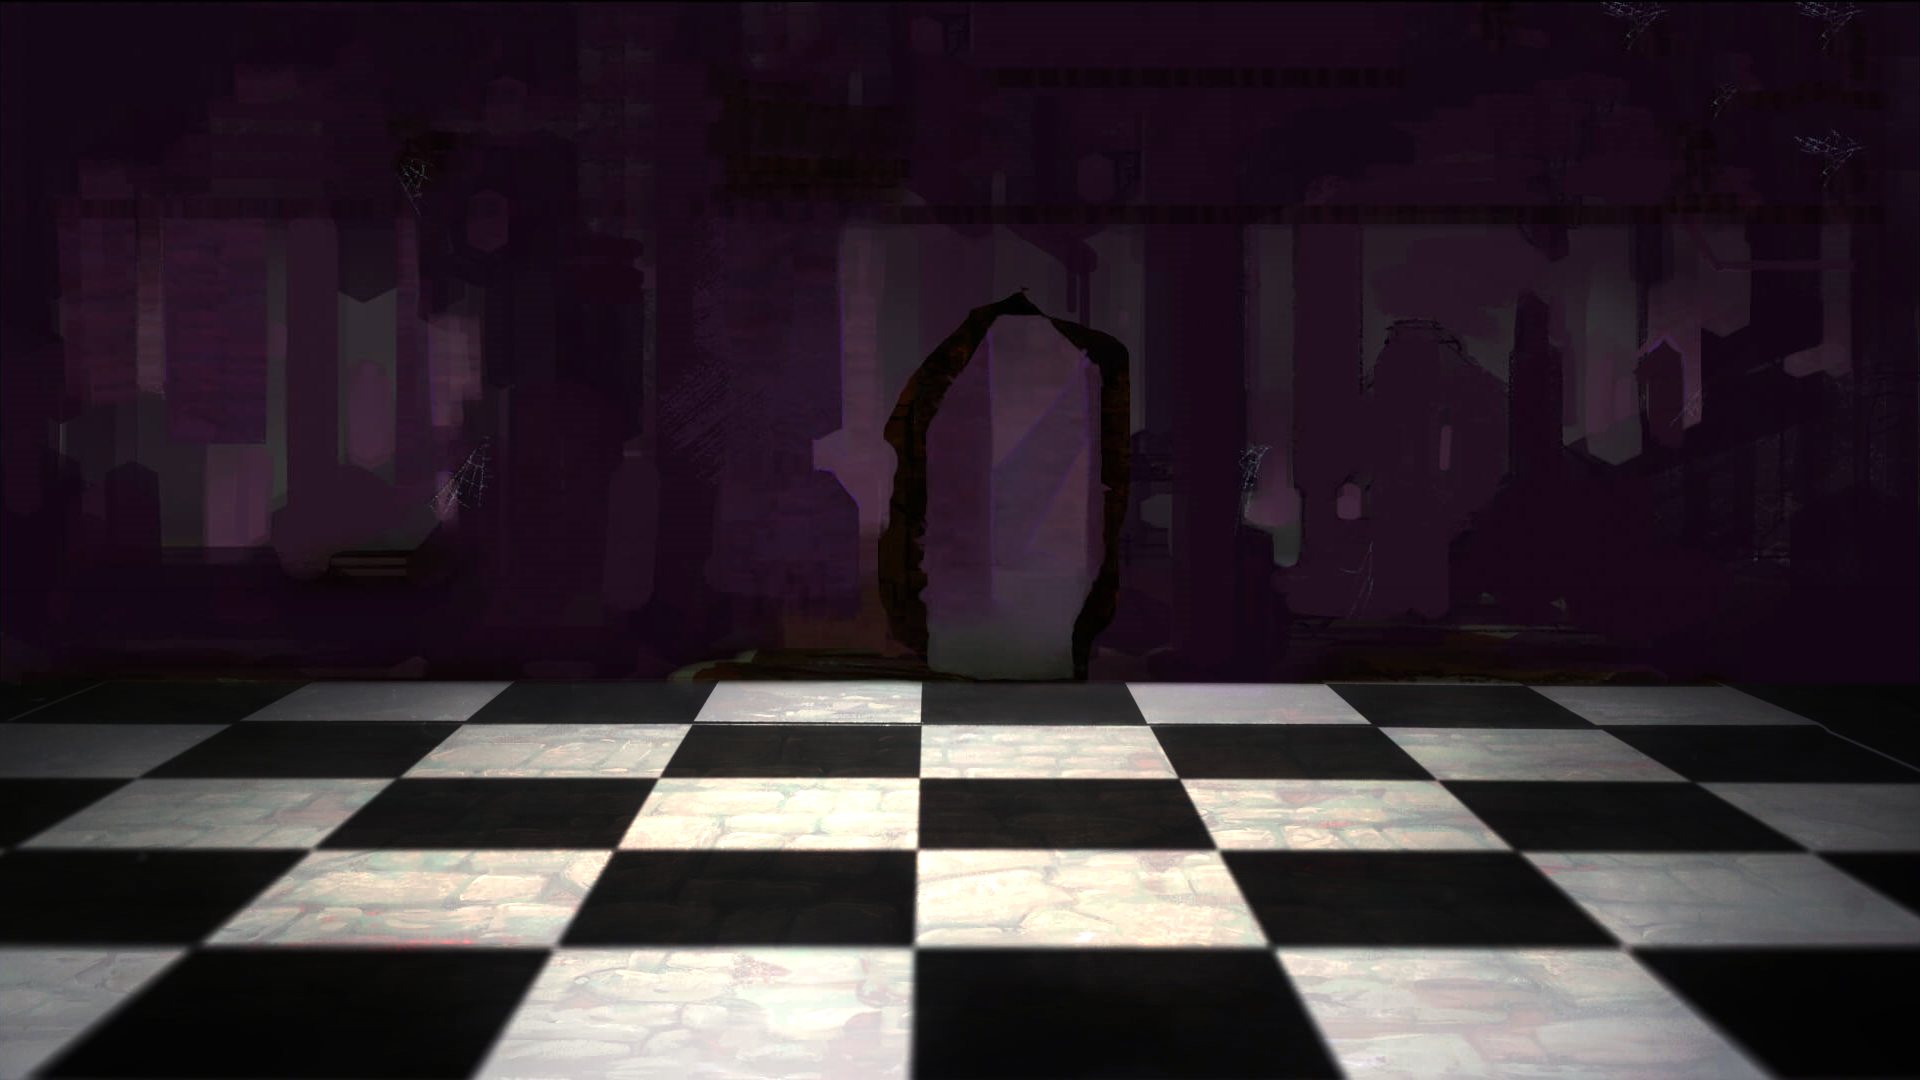
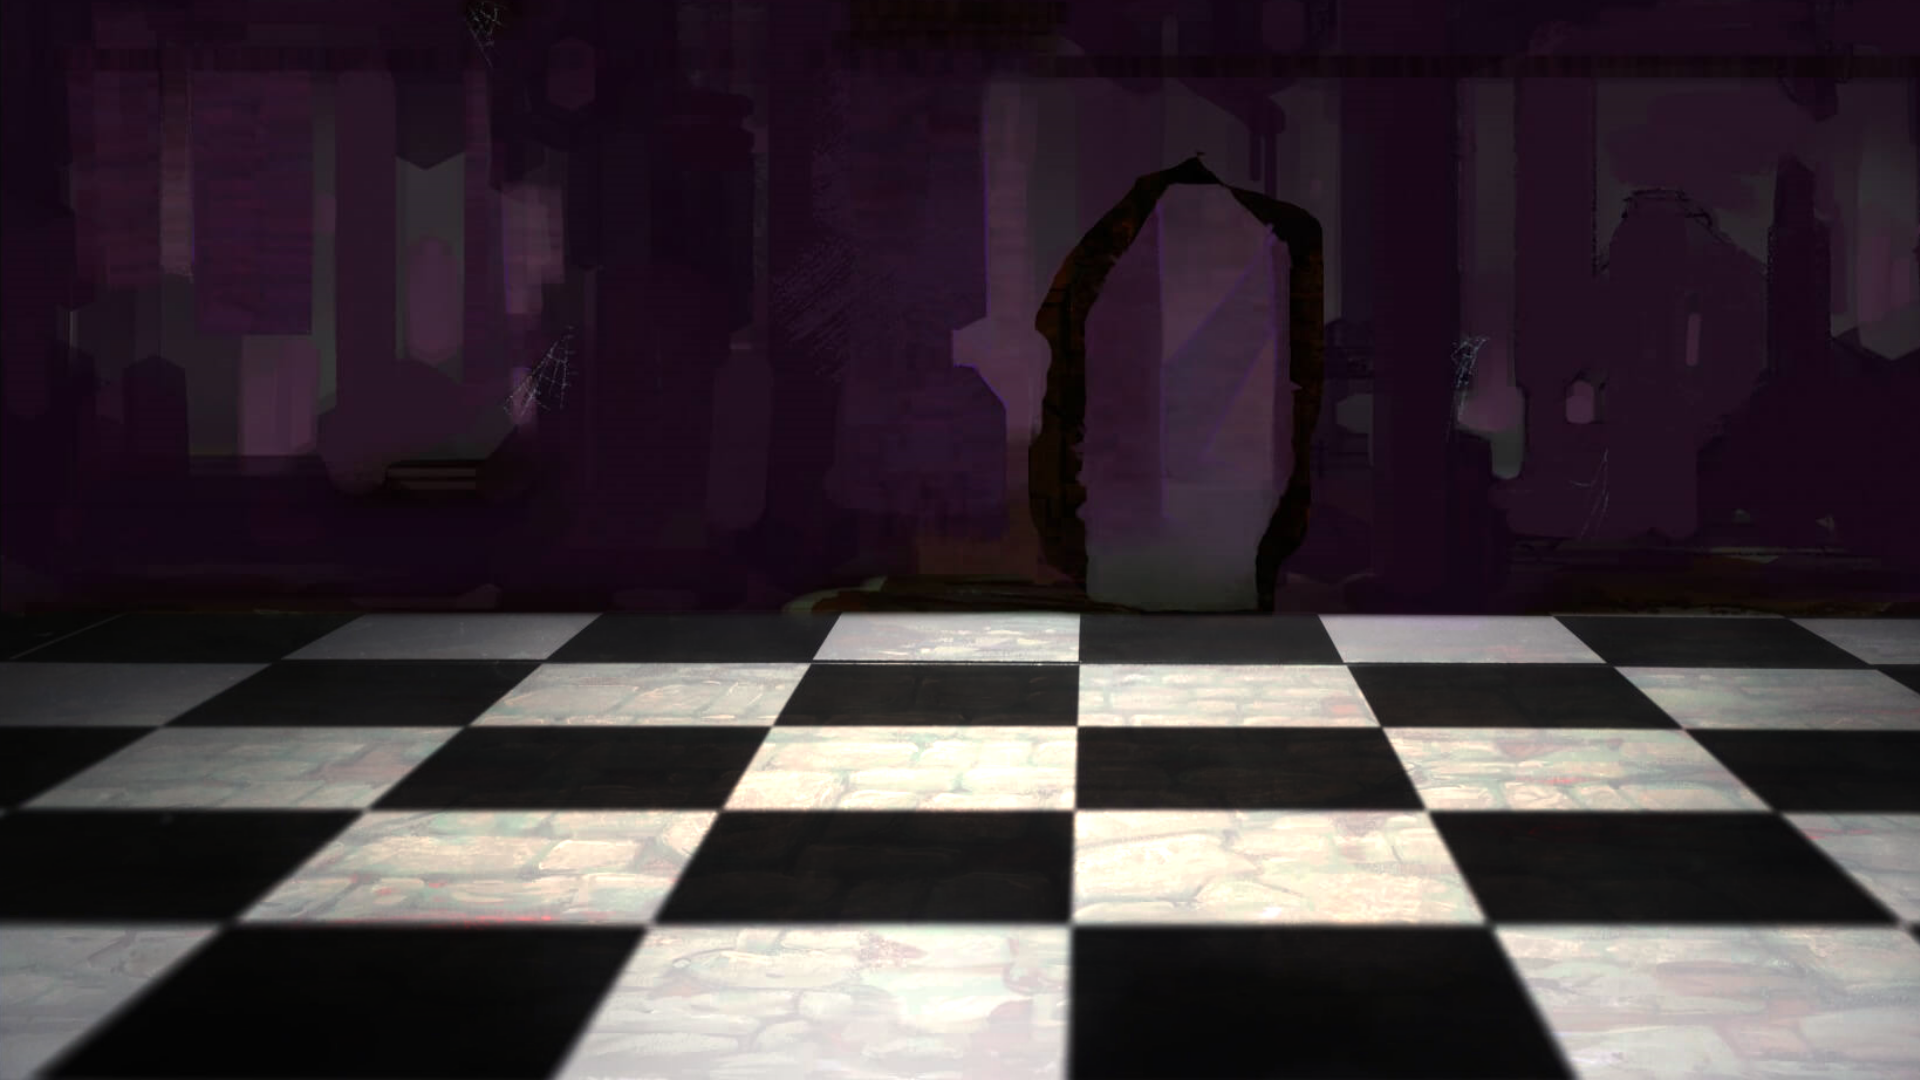
setup queen

diff --git a/BattleTowers/src/main/java/BattleTowers/monsters/chess/queen/Queen.java b/BattleTowers/src/main/java/BattleTowers/monsters/chess/queen/Queen.java
@@ -6,15 +6,16 @@ import BattleTowers.monsters.chess.queen.powers.BlackWave;
 import BattleTowers.monsters.chess.queen.powers.FactionChange;
 import BattleTowers.monsters.chess.queen.powers.Inverse;
 import BattleTowers.monsters.chess.queen.powers.WhiteWave;
+import basemod.ReflectionHacks;
+import com.badlogic.gdx.Gdx;
 import com.badlogic.gdx.graphics.Color;
+import com.badlogic.gdx.graphics.g2d.TextureAtlas;
 import com.megacrit.cardcrawl.actions.AbstractGameAction;
 import com.megacrit.cardcrawl.actions.animations.FastShakeAction;
 import com.megacrit.cardcrawl.actions.animations.VFXAction;
 import com.megacrit.cardcrawl.actions.common.*;
 import com.megacrit.cardcrawl.actions.utility.SFXAction;
-import com.megacrit.cardcrawl.cards.AbstractCard;
 import com.megacrit.cardcrawl.cards.DamageInfo;
-import com.megacrit.cardcrawl.cards.colorless.Madness;
 import com.megacrit.cardcrawl.core.AbstractCreature;
 import com.megacrit.cardcrawl.core.CardCrawlGame;
 import com.megacrit.cardcrawl.core.Settings;
@@ -22,6 +23,7 @@ import com.megacrit.cardcrawl.dungeons.AbstractDungeon;
 import com.megacrit.cardcrawl.localization.MonsterStrings;
 import com.megacrit.cardcrawl.monsters.EnemyMoveInfo;
 import com.megacrit.cardcrawl.powers.*;
+import com.megacrit.cardcrawl.scenes.AbstractScene;
 import com.megacrit.cardcrawl.vfx.BorderFlashEffect;
 import com.megacrit.cardcrawl.vfx.combat.MoveNameEffect;
 import com.megacrit.cardcrawl.vfx.combat.ShockWaveEffect;
@@ -40,61 +42,31 @@ public class Queen extends AbstractCardChessMonster {
     public static final String[] MOVES = monsterStrings.MOVES;
     public static final String[] DIALOG = monsterStrings.DIALOG;
 
-    // Deal 7 Damage. If this was unblocked, Gain 3 Strength Next turn.
     private static final byte QUEENS_WILL = 0;
     private static final byte MIMIC_BLACK = 1;
     private static final byte MIMIC_WHITE = 2;
     private static final byte DRAIN_OF_COLOUR = 3;
-    private static final byte INVERSE_STORE = 4;
+    private static final byte MIMIC_INVERT = 4;
     private static final byte QUEENS_PROTECTION = 5;
     private static final byte QUEENS_MARCH = 6;
-    private static final byte QUEENS_DECREE = 7;
 
     private int turn = 1;
-    // Timeline:
 
-    // T1: Store_Black or Store_White.
+    public final int willDamage = calcAscensionDamage(5);
+    public final int willStrength = 1;
 
-    // T2: Stored_Wave + Queen's Will.
-
-    // T3: Store_Black or Store_White.
-
-    // T4: Stored_Wave + Queen's Will.
-
-    // T5: Queen's Protection {BLOCK}.
-
-    // T6: Queen's March
-
-    // T7: Inverse_Store_Black / Inverse_Store_White
-
-    // T8: Stored_Wave + Queen's Will
-
-    // T9: Inverse_Stored_Black/White + Queen's Will.
-
-    // T10: Queen's Will + Stored_Wave
-
-    // T11: Queen's Protection
-
-    // T12: Queen's March
-
-    // T13: Queen's Decree
-
-    // T14: Queen's March
-
-    public final int willDamage = calcAscensionDamage(7);
-    public final int willStrength = calcAscensionSpecial(2);
-
-    public final int waveDamage = calcAscensionDamage(12);
+    public final int waveDamage = calcAscensionDamage(15);
     public final int marchDamage = calcAscensionDamage(20);
 
-    public final int protectionBlock = calcAscensionTankiness(20);
+    public final int protectionBlock = calcAscensionTankiness(15);
+
 
     public Queen() {
         this(0.0f, 0.0f);
     }
 
     public Queen(final float x, final float y) {
-        super(NAME, ID, 350, 0.0F, 0, 230.0f, 265.0f, null, x, y);
+        super(NAME, ID, 450, 0.0F, 0, 230.0f, 400.0f, null, x, y);
         this.animation = new BetterSpriterAnimation(makeMonsterPath("Chess/Queen/Spriter/Queen.scml"));
         this.setHp(calcAscensionTankiness(this.maxHealth));
         this.type = EnemyType.BOSS;
@@ -106,11 +78,10 @@ public class Queen extends AbstractCardChessMonster {
         addMove(QUEENS_WILL, Intent.ATTACK_BUFF, willDamage);
         addMove(MIMIC_BLACK, Intent.UNKNOWN);
         addMove(MIMIC_WHITE, Intent.UNKNOWN);
-        addMove(DRAIN_OF_COLOUR, IntentEnums.QUEEN_DRAIN, waveDamage);
-        addMove(INVERSE_STORE, Intent.UNKNOWN);
+        addMove(DRAIN_OF_COLOUR, IntentEnums.QUEEN_DRAIN_ATTACK, waveDamage);
+        addMove(MIMIC_INVERT, Intent.UNKNOWN);
         addMove(QUEENS_PROTECTION, Intent.DEFEND, protectionBlock);
         addMove(QUEENS_MARCH, Intent.ATTACK, marchDamage);
-        addMove(QUEENS_DECREE, Intent.BUFF);
     }
 
     @Override
@@ -121,13 +92,9 @@ public class Queen extends AbstractCardChessMonster {
 
     @Override
     public void usePreBattleAction() {
-        atb(new AbstractGameAction() {
-            @Override
-            public void update() {
-                runAnim("Idle");
-                isDone = true;
-            }
-        });
+        TextureAtlas atlas = new TextureAtlas(Gdx.files.internal(makeMonsterPath("Chess/Scene/atlas.atlas")));
+        ReflectionHacks.setPrivate(AbstractDungeon.scene, AbstractScene.class, "bg", atlas.findRegion("mod/Chess"));
+        runAnim("Idle");
         doPow(p(), new FactionChange(p()), true);
     }
 
@@ -174,18 +141,10 @@ public class Queen extends AbstractCardChessMonster {
         switch (move.nextMove) {
             case QUEENS_WILL: {
                 dmg(target, info);
-                atb(new AbstractGameAction() {
-                    @Override
-                    public void update() {
-                        if (p().lastDamageTaken > 0) {
-                            doPow(Queen.this, new StrengthPower(Queen.this, willStrength), true);
-                        }
-                        isDone = true;
-                    }
-                });
+                doPow(Queen.this, new StrengthPower(Queen.this, willStrength), false);
                 break;
             }
-            case QUEENS_DECREE: {
+            case QUEENS_PROTECTION: {
                 atb(new GainBlockAction(this, protectionBlock));
                 break;
             }
@@ -194,14 +153,14 @@ public class Queen extends AbstractCardChessMonster {
                 dmg(target, info);
                 break;
             }
-            case INVERSE_STORE: {
+            case MIMIC_INVERT: {
                 if(AbstractDungeon.monsterRng.random(0, 99) <= 45){
                     atb(new SFXAction("THUNDERCLAP"));
                     atb(new VFXAction(new BorderFlashEffect(Color.BLACK.cpy(), true)));
                     if (!Settings.FAST_MODE) {
-                        atb(new FastShakeAction(AbstractDungeon.player, 0.6F, 0.2F));
+                        atb(new FastShakeAction(Queen.this, 0.6F, 0.2F));
                     } else {
-                        atb(new FastShakeAction(AbstractDungeon.player, 0.6F, 0.15F));
+                        atb(new FastShakeAction(Queen.this, 0.6F, 0.15F));
                     }
                     atb(new AbstractGameAction() {
                         @Override
@@ -216,9 +175,9 @@ public class Queen extends AbstractCardChessMonster {
                     atb(new SFXAction("THUNDERCLAP"));
                     atb(new VFXAction(new BorderFlashEffect(Color.WHITE.cpy(), true)));
                     if (!Settings.FAST_MODE) {
-                        atb(new FastShakeAction(AbstractDungeon.player, 0.6F, 0.2F));
+                        atb(new FastShakeAction(Queen.this, 0.6F, 0.2F));
                     } else {
-                        atb(new FastShakeAction(AbstractDungeon.player, 0.6F, 0.15F));
+                        atb(new FastShakeAction(Queen.this, 0.6F, 0.15F));
                     }
                     atb(new AbstractGameAction() {
                         @Override
@@ -297,10 +256,10 @@ public class Queen extends AbstractCardChessMonster {
                                     }
                                     if (!Settings.FAST_MODE) {
                                         att(new FastShakeAction(p(), 0.6F, 0.2F));
-                                        att(new VFXAction(Queen.this, new ShockWaveEffect(Queen.this.hb.cX, Queen.this.hb.cY, Color.BLACK.cpy(), ShockWaveEffect.ShockWaveType.ADDITIVE), 0.5F));
+                                        att(new VFXAction(Queen.this, new ShockWaveEffect(Queen.this.hb.cX, Queen.this.hb.cY, Color.BLACK.cpy(), ShockWaveEffect.ShockWaveType.NORMAL), 0.5F));
                                     } else {
                                         att(new FastShakeAction(p(), 0.6F, 0.15F));
-                                        att(new VFXAction(Queen.this, new ShockWaveEffect(Queen.this.hb.cX, Queen.this.hb.cY, Color.BLACK.cpy(), ShockWaveEffect.ShockWaveType.ADDITIVE), 0.1F));
+                                        att(new VFXAction(Queen.this, new ShockWaveEffect(Queen.this.hb.cX, Queen.this.hb.cY, Color.BLACK.cpy(), ShockWaveEffect.ShockWaveType.NORMAL), 0.1F));
                                     }
                                     att(new VFXAction(new BorderFlashEffect(Color.BLACK.cpy(), true)));
                                     att(new SFXAction("THUNDERCLAP"));
@@ -313,10 +272,10 @@ public class Queen extends AbstractCardChessMonster {
                                     }
                                     if (!Settings.FAST_MODE) {
                                         att(new FastShakeAction(p(), 0.6F, 0.2F));
-                                        att(new VFXAction(Queen.this, new ShockWaveEffect(Queen.this.hb.cX, Queen.this.hb.cY, Color.WHITE.cpy(), ShockWaveEffect.ShockWaveType.ADDITIVE), 0.5F));
+                                        att(new VFXAction(Queen.this, new ShockWaveEffect(Queen.this.hb.cX, Queen.this.hb.cY, Color.WHITE.cpy(), ShockWaveEffect.ShockWaveType.NORMAL), 0.5F));
                                     } else {
                                         att(new FastShakeAction(p(), 0.6F, 0.15F));
-                                        att(new VFXAction(Queen.this, new ShockWaveEffect(Queen.this.hb.cX, Queen.this.hb.cY, Color.WHITE.cpy(), ShockWaveEffect.ShockWaveType.ADDITIVE), 0.1F));
+                                        att(new VFXAction(Queen.this, new ShockWaveEffect(Queen.this.hb.cX, Queen.this.hb.cY, Color.WHITE.cpy(), ShockWaveEffect.ShockWaveType.NORMAL), 0.1F));
                                     }
                                     att(new VFXAction(new BorderFlashEffect(Color.WHITE.cpy(), true)));
                                     att(new SFXAction("THUNDERCLAP"));
@@ -333,10 +292,10 @@ public class Queen extends AbstractCardChessMonster {
                                     }
                                     if (!Settings.FAST_MODE) {
                                         att(new FastShakeAction(p(), 0.6F, 0.2F));
-                                        att(new VFXAction(Queen.this, new ShockWaveEffect(Queen.this.hb.cX, Queen.this.hb.cY, Color.WHITE.cpy(), ShockWaveEffect.ShockWaveType.ADDITIVE), 0.5F));
+                                        att(new VFXAction(Queen.this, new ShockWaveEffect(Queen.this.hb.cX, Queen.this.hb.cY, Color.WHITE.cpy(), ShockWaveEffect.ShockWaveType.NORMAL), 0.5F));
                                     } else {
                                         att(new FastShakeAction(p(), 0.6F, 0.15F));
-                                        att(new VFXAction(Queen.this, new ShockWaveEffect(Queen.this.hb.cX, Queen.this.hb.cY, Color.WHITE.cpy(), ShockWaveEffect.ShockWaveType.ADDITIVE), 0.1F));
+                                        att(new VFXAction(Queen.this, new ShockWaveEffect(Queen.this.hb.cX, Queen.this.hb.cY, Color.WHITE.cpy(), ShockWaveEffect.ShockWaveType.NORMAL), 0.1F));
                                     }
                                     att(new VFXAction(new BorderFlashEffect(Color.WHITE.cpy(), true)));
                                     att(new SFXAction("THUNDERCLAP"));
@@ -349,10 +308,10 @@ public class Queen extends AbstractCardChessMonster {
                                     }
                                     if (!Settings.FAST_MODE) {
                                         att(new FastShakeAction(p(), 0.6F, 0.2F));
-                                        att(new VFXAction(Queen.this, new ShockWaveEffect(Queen.this.hb.cX, Queen.this.hb.cY, Color.BLACK.cpy(), ShockWaveEffect.ShockWaveType.ADDITIVE), 0.5F));
+                                        att(new VFXAction(Queen.this, new ShockWaveEffect(Queen.this.hb.cX, Queen.this.hb.cY, Color.BLACK.cpy(), ShockWaveEffect.ShockWaveType.NORMAL), 0.5F));
                                     } else {
                                         att(new FastShakeAction(p(), 0.6F, 0.15F));
-                                        att(new VFXAction(Queen.this, new ShockWaveEffect(Queen.this.hb.cX, Queen.this.hb.cY, Color.BLACK.cpy(), ShockWaveEffect.ShockWaveType.ADDITIVE), 0.1F));
+                                        att(new VFXAction(Queen.this, new ShockWaveEffect(Queen.this.hb.cX, Queen.this.hb.cY, Color.BLACK.cpy(), ShockWaveEffect.ShockWaveType.NORMAL), 0.1F));
                                     }
                                     att(new VFXAction(new BorderFlashEffect(Color.BLACK.cpy(), true)));
                                     att(new SFXAction("THUNDERCLAP"));
@@ -423,38 +382,35 @@ public class Queen extends AbstractCardChessMonster {
 
     @Override
     protected void getMove(final int num) {
-        if(lastMove(MIMIC_BLACK) || lastMove(MIMIC_WHITE) || lastMove(INVERSE_STORE)){setMoveShortcut(DRAIN_OF_COLOUR, MOVES[DRAIN_OF_COLOUR], getMoveCardFromByte(DRAIN_OF_COLOUR));}
-        else if(lastMove(QUEENS_DECREE)){setMoveShortcut(QUEENS_MARCH, MOVES[QUEENS_MARCH], getMoveCardFromByte(QUEENS_MARCH));}
+        if(lastMove(MIMIC_BLACK) || lastMove(MIMIC_WHITE) || lastMove(MIMIC_INVERT)){setMoveShortcut(DRAIN_OF_COLOUR, MOVES[DRAIN_OF_COLOUR]);}
         else {
             switch (turn){
                 case 6:
-                    setMoveShortcut(QUEENS_MARCH, MOVES[QUEENS_MARCH], getMoveCardFromByte(QUEENS_MARCH));
+                    setMoveShortcut(QUEENS_MARCH, MOVES[QUEENS_MARCH]);
                     break;
                 case 9:
                 case 7:
-                    setMoveShortcut(INVERSE_STORE, MOVES[INVERSE_STORE], getMoveCardFromByte(INVERSE_STORE));
+                    setMoveShortcut(MIMIC_INVERT, MOVES[MIMIC_INVERT]);
                     break;
                 case 13:
-                    setMoveShortcut(QUEENS_DECREE, MOVES[QUEENS_DECREE], getMoveCardFromByte(QUEENS_DECREE));
-                    break;
                 case 5:
                 case 11:
                     setMoveShortcut(QUEENS_PROTECTION);
                     break;
                 default:
                     if(this.hasPower(StrengthPower.POWER_ID)){
-                        if(AbstractDungeon.monsterRng.random(0, 99) <= 45){setMoveShortcut(INVERSE_STORE, MOVES[INVERSE_STORE], getMoveCardFromByte(INVERSE_STORE));}
+                        if(AbstractDungeon.monsterRng.random(0, 99) <= 45){setMoveShortcut(MIMIC_INVERT, MOVES[MIMIC_INVERT]);}
                         else {
-                            if(AbstractDungeon.monsterRng.random(0, 99) <= 45){setMoveShortcut(MIMIC_WHITE, MOVES[MIMIC_WHITE], getMoveCardFromByte(MIMIC_WHITE));}
-                            else {setMoveShortcut(MIMIC_BLACK, MOVES[MIMIC_BLACK], getMoveCardFromByte(MIMIC_BLACK)); }
+                            if(AbstractDungeon.monsterRng.random(0, 99) <= 45){setMoveShortcut(MIMIC_WHITE, MOVES[MIMIC_WHITE]);}
+                            else {setMoveShortcut(MIMIC_BLACK, MOVES[MIMIC_BLACK]); }
                         }
                     }
                     else {
                         if(AbstractDungeon.monsterRng.random(0, 99) <= 45){
-                            setMoveShortcut(MIMIC_BLACK, MOVES[MIMIC_BLACK], getMoveCardFromByte(MIMIC_BLACK));
+                            setMoveShortcut(MIMIC_BLACK, MOVES[MIMIC_BLACK]);
                         }
                         else {
-                            setMoveShortcut(MIMIC_WHITE, MOVES[MIMIC_WHITE], getMoveCardFromByte(MIMIC_WHITE));
+                            setMoveShortcut(MIMIC_WHITE, MOVES[MIMIC_WHITE]);
                         }
                     }
             }
@@ -465,37 +421,13 @@ public class Queen extends AbstractCardChessMonster {
     public void getAdditionalMoves(int num, int whichMove) {
         ArrayList<Byte> moveHistory = additionalMovesHistory.get(whichMove);
         switch (turn) {
-            case 2:
-            case 4:
-            case 5:
-            case 8:
-            case 10:
-            case 11: {
-                setAdditionalMoveShortcut(QUEENS_WILL, moveHistory, getMoveCardFromByte(QUEENS_WILL));
-                break;
-            }
             default: {
-                if (turn >= 14) {
-                    setAdditionalMoveShortcut(QUEENS_WILL, moveHistory, getMoveCardFromByte(QUEENS_WILL));
+                if (turn % 2 != 0) {
+                    setAdditionalMoveShortcut(QUEENS_WILL, moveHistory);
                 }
                 break;
             }
         }
-    }
-
-    protected AbstractCard getMoveCardFromByte(Byte move) {
-        ArrayList<AbstractCard> list = new ArrayList<>();
-        list.add(new Madness());
-        list.add(new Madness());
-        list.add(new Madness());
-        list.add(new Madness());
-        list.add(new Madness());
-        list.add(new Madness());
-        list.add(new Madness());
-        list.add(new Madness());
-        list.add(new Madness());
-        list.add(new Madness());
-        return list.get(move);
     }
 
 

diff --git a/BattleTowers/src/main/java/BattleTowers/monsters/chess/queen/customintents/IntentEnums.java b/BattleTowers/src/main/java/BattleTowers/monsters/chess/queen/customintents/IntentEnums.java
@@ -7,7 +7,7 @@ public class IntentEnums {
     @SpireEnum
     public static AbstractMonster.Intent QUEEN_MIMIC;
     @SpireEnum
-    public static AbstractMonster.Intent QUEEN_DRAIN;
+    public static AbstractMonster.Intent QUEEN_DRAIN_ATTACK;
     @SpireEnum
     public static AbstractMonster.Intent QUEEN_MARCH;
 }

diff --git a/BattleTowers/src/main/java/BattleTowers/monsters/chess/queen/customintents/QueenDrainIntent.java b/BattleTowers/src/main/java/BattleTowers/monsters/chess/queen/customintents/QueenDrainIntent.java
@@ -18,7 +18,7 @@ public class QueenDrainIntent extends CustomIntent {
 
 
     public QueenDrainIntent() {
-        super(IntentEnums.QUEEN_DRAIN, TEXT[0],
+        super(IntentEnums.QUEEN_DRAIN_ATTACK, TEXT[0],
                 makeUIPath("queenDrain_L.png"),
                 makeUIPath("queenDrain.png"));
     }
